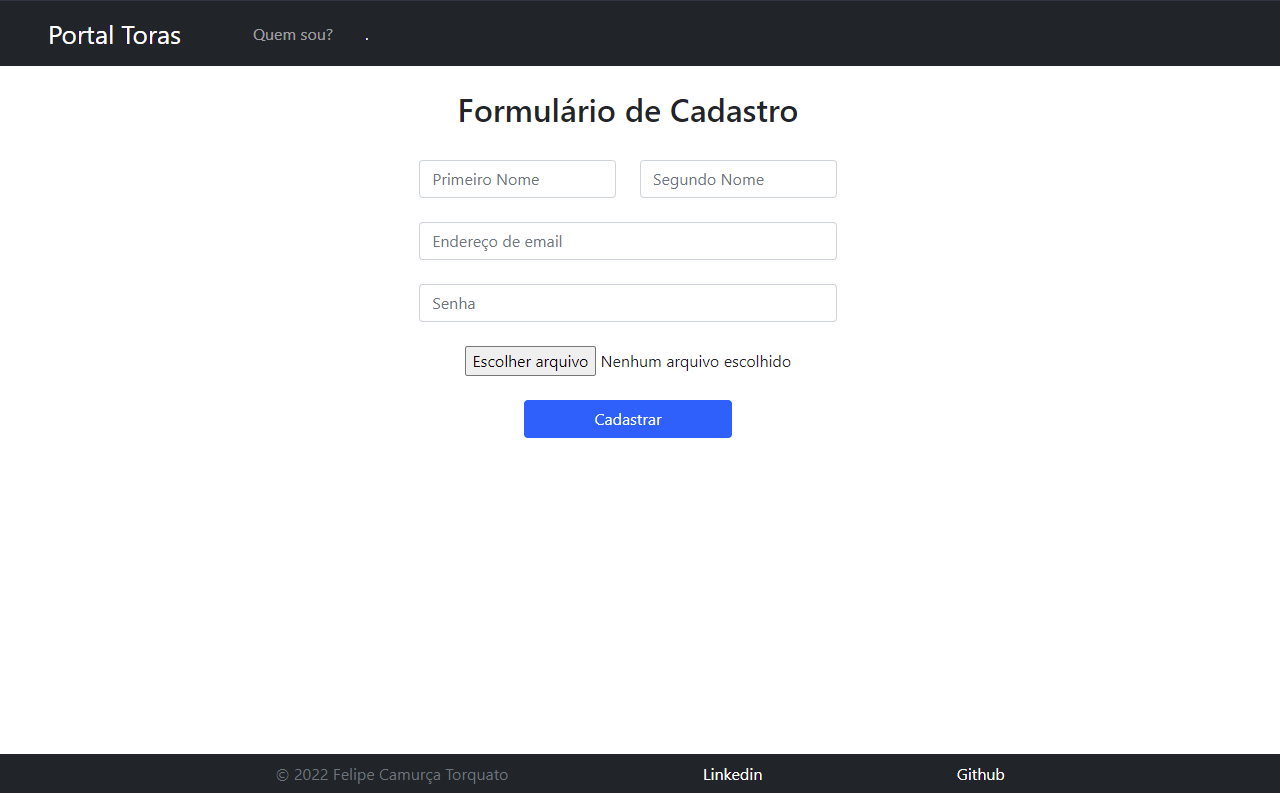
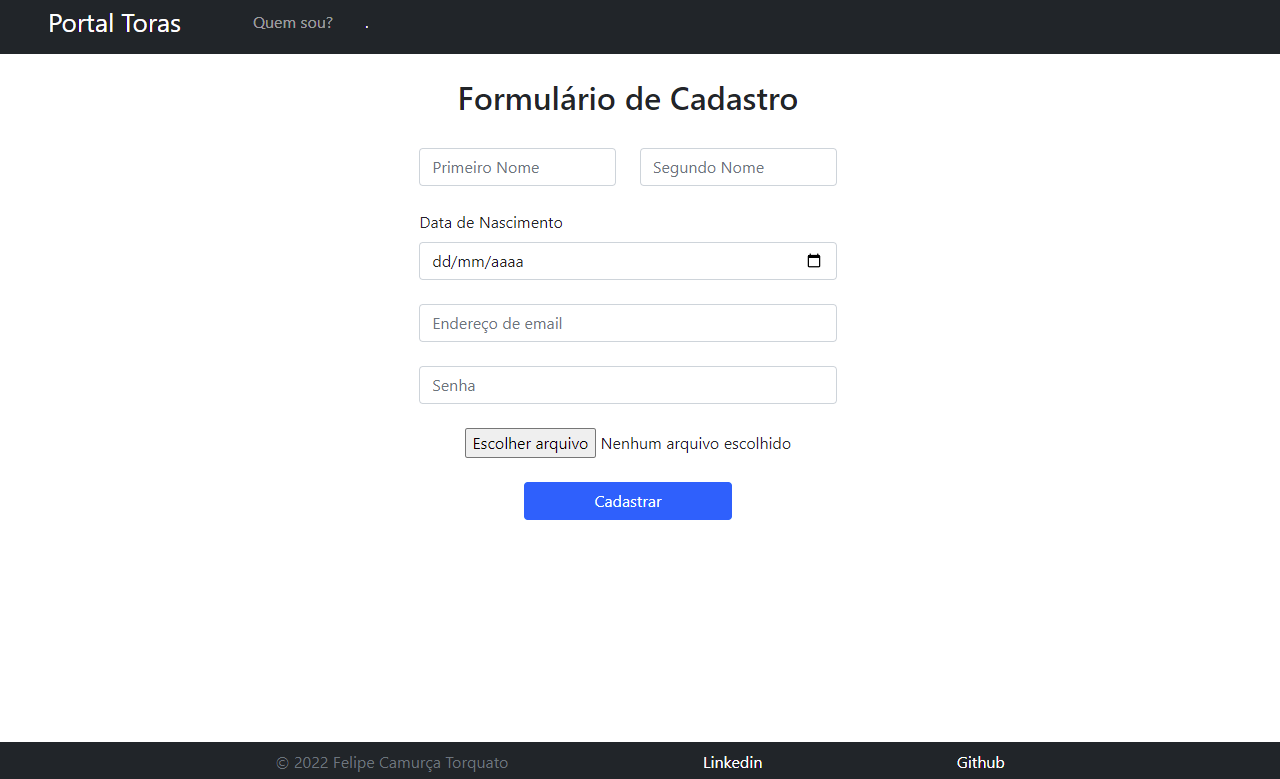
adicionando data de nascimento em cadastro

diff --git a/src/app/components/cadastro/cadastro.component.html b/src/app/components/cadastro/cadastro.component.html
@@ -8,24 +8,31 @@
       <div class="row mb-4 mt-2">
         <div class="col">
           <div class="form-outline">
-            <input type="text" id="form3Example1" class="form-control" placeholder="Primeiro Nome"/>
+            <input type="text" id="formFirstName" class="form-control" placeholder="Primeiro Nome"/>
           </div>
         </div>
         <div class="col">
           <div class="form-outline">
-            <input type="text" id="form3Example2" class="form-control" placeholder="Segundo Nome"/>
+            <input type="text" id="formSecondName" class="form-control" placeholder="Segundo Nome"/>
           </div>
         </div>
+      </div>
+
+      <div class="form-outline mb-4">
+        <div class="d-flex">
+          <label for="birthDate" class="form-label">Data de Nascimento</label>
+        </div>
+        <input type="date" class="form-control">
       </div>
     
       <!-- Email input -->
       <div class="form-outline mb-4">
-        <input type="email" id="form3Example3" class="form-control" placeholder="Endereço de email"/>
+        <input type="email" id="formEmail" class="form-control" placeholder="Endereço de email"/>
       </div>
     
       <!-- Password input -->
       <div class="form-outline mb-4">
-        <input type="password" id="form3Example4" class="form-control" placeholder="Senha"/>
+        <input type="password" id="formPassword" class="form-control" placeholder="Senha"/>
       </div>
 
       <!-- Image input -->
